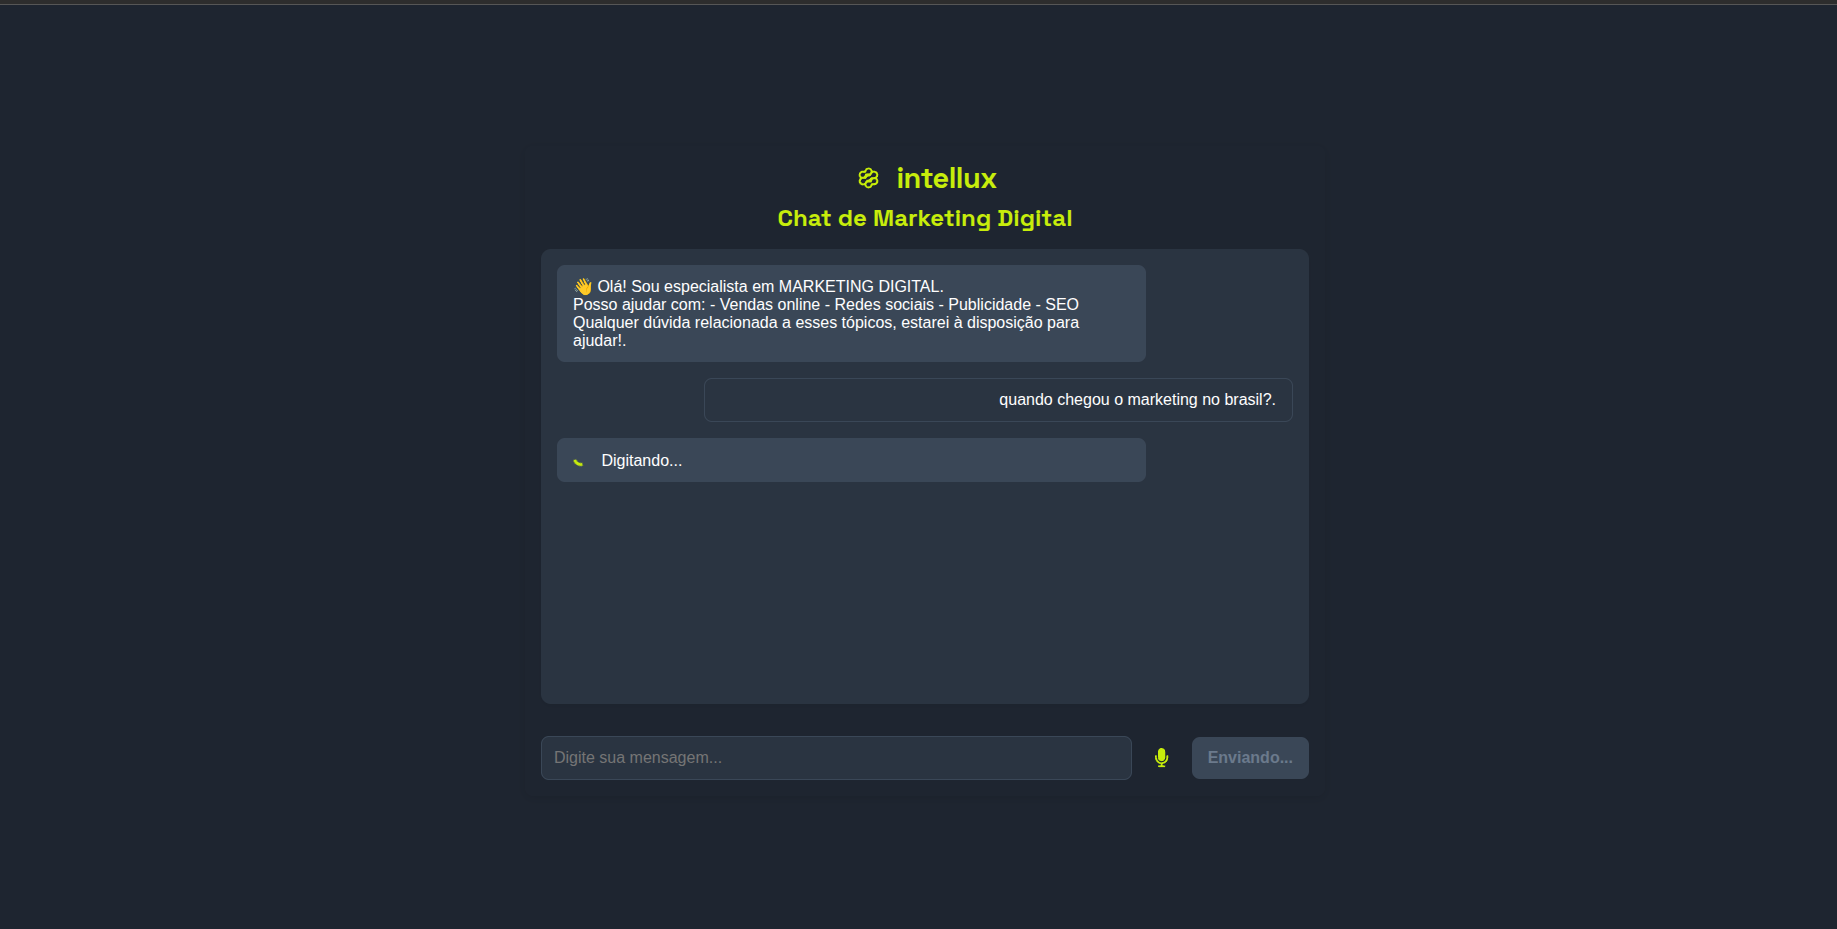
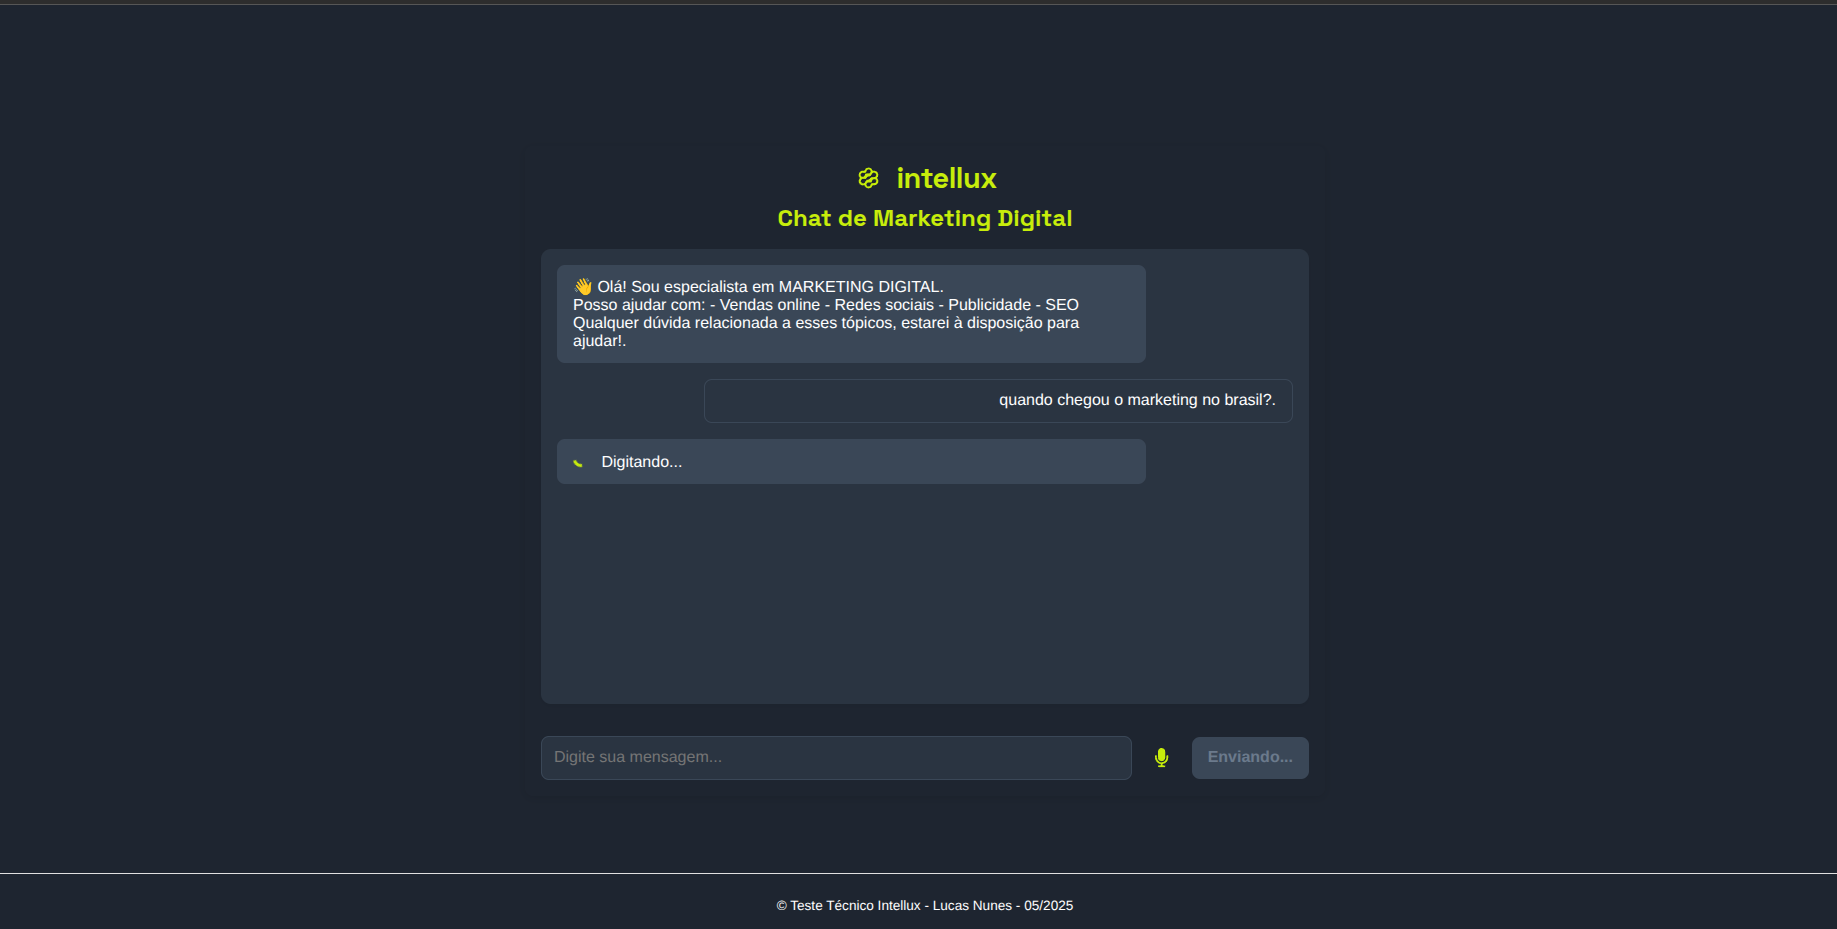
feat: adicionando footer

diff --git a/frontend/fe-marketing-assistant/src/Components/ChatPage.tsx b/frontend/fe-marketing-assistant/src/Components/ChatPage.tsx
@@ -1,6 +1,5 @@
 import { useState, useEffect, ChangeEvent, useRef } from "react";
 import VoiceInput from "./VoiceInput";
-import { FaMicrophone, FaMicrophoneSlash } from "react-icons/fa";
 import "../index.css";
 
 interface Message {
@@ -130,7 +129,11 @@ function ChatComponent() {
           {loading ? "Enviando..." : "Enviar"}
         </button>
       </div>
+      <div className="footer">
+        <p>© Teste Técnico Intellux - Lucas Nunes - 05/2025</p>
+      </div>
     </div>
+    
   );
 }
 

diff --git a/frontend/fe-marketing-assistant/src/index.css b/frontend/fe-marketing-assistant/src/index.css
@@ -177,6 +177,24 @@ button:disabled {
   animation: pulse 1.5s infinite;
 }
 
+.footer {
+  position: fixed;
+  bottom: 0;
+  left: 0;
+  width: 100%;
+  background-color: #1e2530;
+  text-align: center;
+  padding: 1.50rem;
+  font-size: 0.85rem;
+  color: white;
+  border-top: 0.1px solid #e0e0e0;
+  z-index: 1000;
+
+  font-family: 'Montserrat', sans-serif; 
+
+}
+
+
 @keyframes spin {
   to {
     transform: rotate(360deg);

diff --git a/app/validators/topic_validator.py b/app/validators/topic_validator.py
@@ -22,7 +22,7 @@ def is_follow_up_question(question: str, chat_history: list[dict]) -> bool:
         if interaction['role'] == 'user'
     )
     
-    continuation_words = {'isso', 'como', 'porque', 'por que', 'explique', 'detalhe', 'mais', 'o que é', 'quando','quem'}
+    continuation_words = {'isso', 'como', 'porque', 'por que', 'explique', 'detalhe', 'mais', 'o que é', 'quando','quem', 'como eu posso', 'e quando', 'desde quando'}
     question_words = set(question.lower().split())
     
     return has_marketing_context and bool(continuation_words & question_words)
